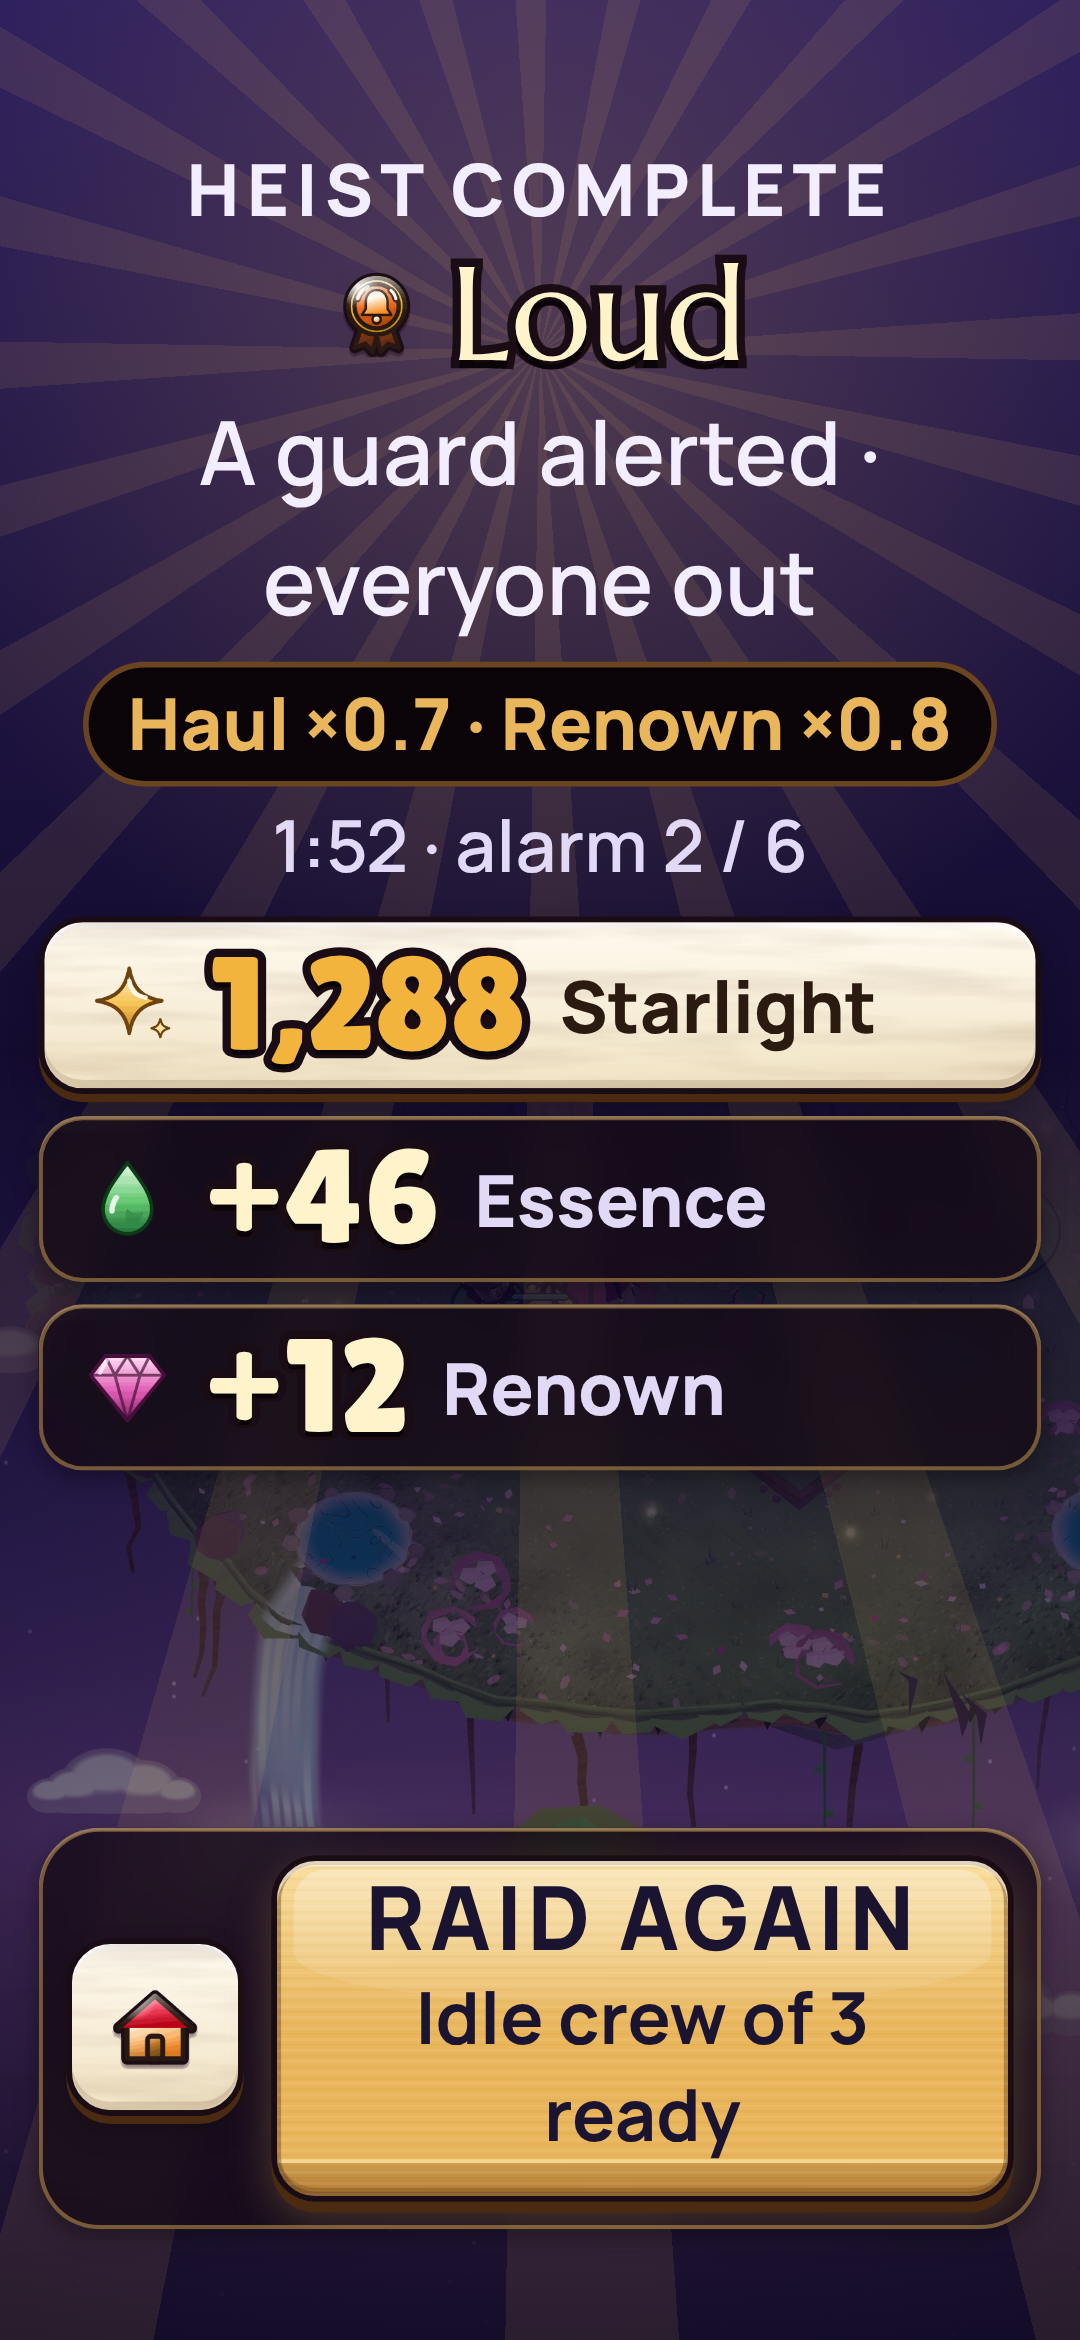
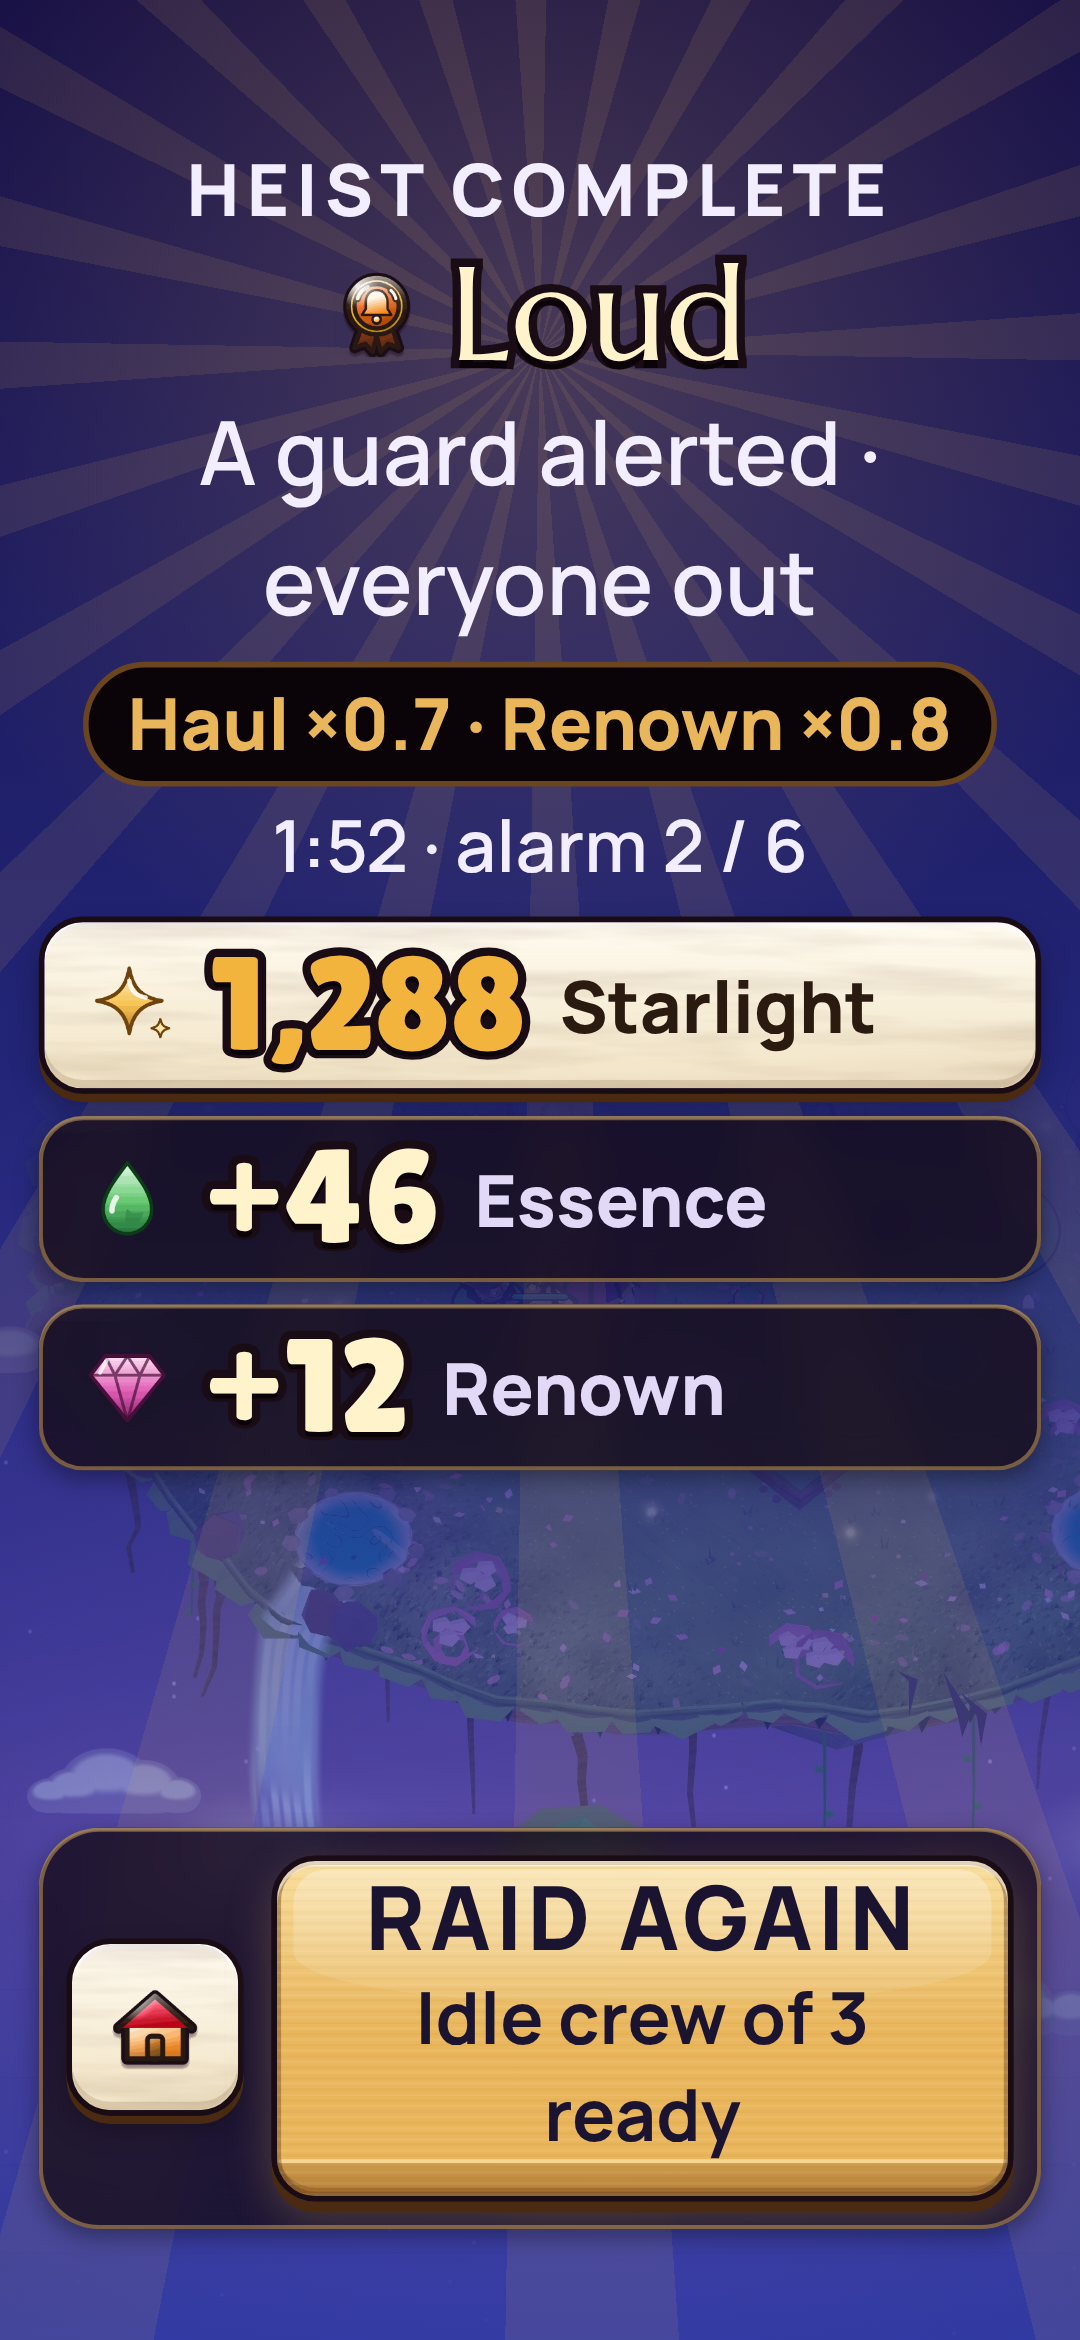
P0-K1-tokens-2: the result key frame's two captions in text_on_night (K1-R8, granted as exception), its stills re-shot
Claude-Session: https://claude.ai/code/session_01SNkKxnxY3qKwypH2HQMfd8

diff --git a/art/ui/keyframes/03-result.html b/art/ui/keyframes/03-result.html
@@ -91,7 +91,7 @@ html.hc body { background-image: none; background-color: var(--hc-night-top); }
       <span class="row outcome-row"><img class="ico l" src="../../../client/ui/icons/png/heistoutcomes/loud.png" alt=""><span class="outcome" data-key="GRADE_LOUD" data-check></span></span>
       <span class="body on-night-1" data-key="RESULT_CONDITION_LOUD" data-check></span>
       <span class="multipliers"><span class="caption" data-key="RESULT_MULTIPLIERS" data-args="s:0.7|s:0.8" data-check></span></span>
-      <span class="caption on-night-2" data-key="RESULT_SUBLINE" data-args="d:1|d:52|d:2" data-check></span>
+      <span class="caption on-night-1" data-key="RESULT_SUBLINE" data-args="d:1|d:52|d:2" data-check></span>
     </div>
 
     <div class="moment enamel below">
@@ -120,7 +120,7 @@ html.hc body { background-image: none; background-color: var(--hc-night-top); }
       </div>
     </div>
 
-    <span class="caption on-night-2 fee below info" data-key="RESULT_FEE_RETURNED" data-args="n:120" data-check></span>
+    <span class="caption on-night-1 fee below info" data-key="RESULT_FEE_RETURNED" data-args="n:120" data-check></span>
 
     <div class="study enamel below">
       <span class="kicker" data-key="RESULT_STUDY" data-check></span>
